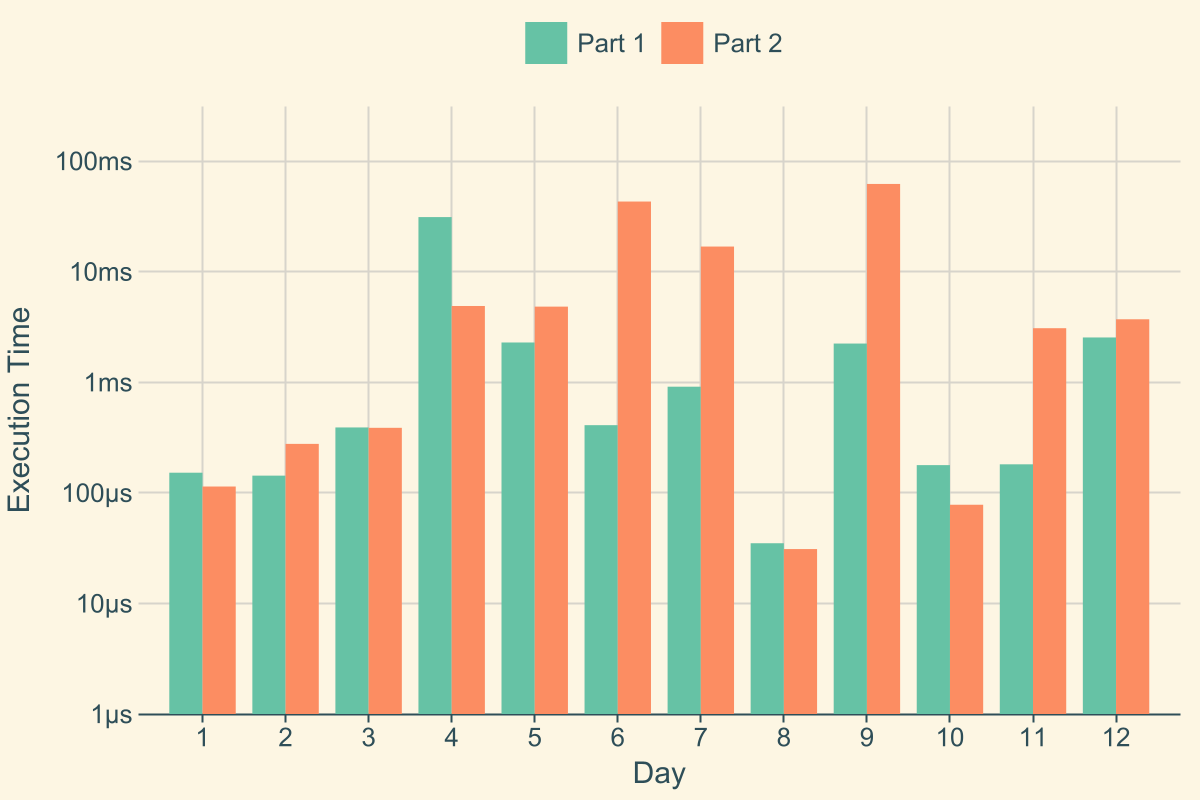
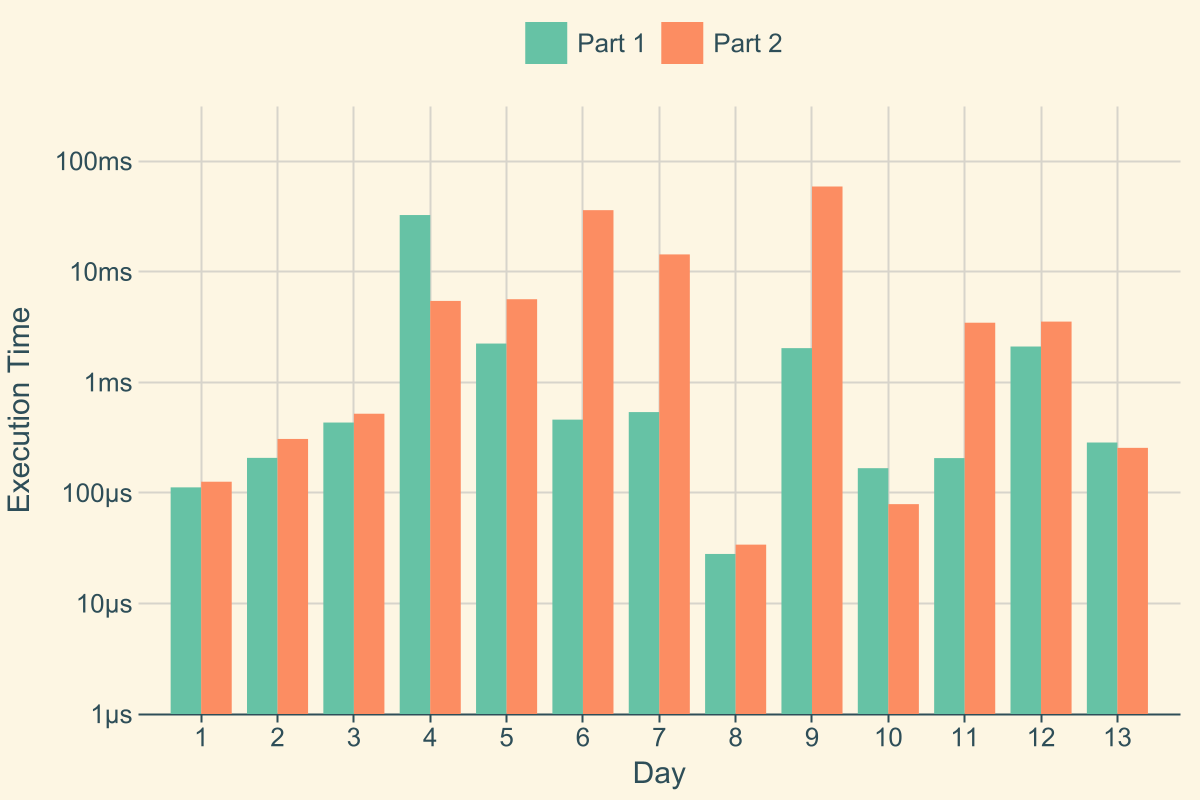
day13

Changed region(s): [[0.1233, 0.2188, 0.9558, 0.9375], [0.925, 0.9062, 0.9558, 0.9375]]

diff --git a/src/day13.rs b/src/day13.rs
@@ -1,0 +1,145 @@
+use crate::harness::Day;
+use crate::harness::Part;
+use regex::Regex;
+use std::sync::OnceLock;
+
+pub fn day13() -> Day<u64, u64> {
+    Day::new(13, Box::new(Part1 {}), Box::new(Part2 {}))
+}
+
+pub struct Part1;
+
+impl Part<u64> for Part1 {
+    fn expect_test(&self) -> u64 {
+        480
+    }
+
+    fn solve(&self, input: &[String]) -> u64 {
+        Input::from(input)
+            .machines
+            .iter()
+            .filter_map(|e| e.solve())
+            .sum()
+    }
+}
+
+pub struct Part2;
+
+impl Part<u64> for Part2 {
+    fn expect_test(&self) -> u64 {
+        875318608908
+    }
+
+    fn solve(&self, input: &[String]) -> u64 {
+        let mut input = Input::from(input);
+
+        for x in &mut input.machines {
+            x.prize.x += 10000000000000.0;
+            x.prize.y += 10000000000000.0;
+        }
+
+        input.machines.iter().filter_map(|e| e.solve()).sum()
+    }
+}
+
+struct Button {
+    x: f64,
+    y: f64,
+}
+
+impl From<&str> for Button {
+    fn from(value: &str) -> Self {
+        static REGEX: OnceLock<Regex> = OnceLock::new();
+        let regex =
+            REGEX.get_or_init(|| Regex::new("Button [AB]: X\\+(\\d+), Y\\+(\\d+)").unwrap());
+
+        let vec = parse_two_numbers(value, regex);
+
+        Self {
+            x: vec[0],
+            y: vec[1],
+        }
+    }
+}
+
+struct Prize {
+    x: f64,
+    y: f64,
+}
+
+impl From<&str> for Prize {
+    fn from(value: &str) -> Self {
+        static REGEX: OnceLock<Regex> = OnceLock::new();
+        let regex = REGEX.get_or_init(|| Regex::new("Prize: X=(\\d+), Y=(\\d+)").unwrap());
+
+        let vec = parse_two_numbers(value, regex);
+
+        Self {
+            x: vec[0],
+            y: vec[1],
+        }
+    }
+}
+
+struct Machine {
+    button_a: Button,
+    button_b: Button,
+    prize: Prize,
+}
+
+impl Machine {
+    fn solve(&self) -> Option<u64> {
+        let ax = self.button_a.x;
+        let bx = self.button_b.x;
+        let ay = self.button_a.y;
+        let by = self.button_b.y;
+
+        let x = self.prize.x;
+        let y = self.prize.y;
+
+        let a = (y * bx - x * by) / (bx * ay - ax * by);
+        let b = (-y * ax + x * ay) / (bx * ay - ax * by);
+
+        if a.fract() == 0.0 && b.fract() == 0.0 {
+            Some((a * 3.0 + b) as u64)
+        } else {
+            None
+        }
+    }
+}
+
+impl From<&[String]> for Machine {
+    fn from(value: &[String]) -> Self {
+        Self {
+            button_a: value[0].as_str().into(),
+            button_b: value[1].as_str().into(),
+            prize: value[2].as_str().into(),
+        }
+    }
+}
+
+struct Input {
+    machines: Vec<Machine>,
+}
+
+impl From<&[String]> for Input {
+    fn from(value: &[String]) -> Self {
+        Self {
+            machines: value
+                .split(|l| l.is_empty())
+                .filter(|e| e.len() == 3)
+                .map(Machine::from)
+                .collect(),
+        }
+    }
+}
+
+fn parse_two_numbers(value: &str, regex: &Regex) -> Vec<f64> {
+    regex
+        .captures(value)
+        .unwrap()
+        .iter()
+        .skip(1)
+        .map(|e| e.unwrap().as_str().parse().unwrap())
+        .collect::<Vec<_>>()
+}

diff --git a/src/main.rs b/src/main.rs
@@ -17,7 +17,7 @@ use crate::day09::day09;
 use crate::day10::day10;
 use crate::day11::day11;
 use crate::day12::day12;
-// use crate::day13::day13;
+use crate::day13::day13;
 // use crate::day14::day14;
 // use crate::day15::day15;
 // use crate::day16::day16;
@@ -43,7 +43,7 @@ mod day09;
 mod day10;
 mod day11;
 mod day12;
-// mod day13;
+mod day13;
 // mod day14;
 // mod day15;
 // mod day16;
@@ -72,6 +72,7 @@ fn main() {
         day10().f(),
         day11().f(),
         day12().f(),
+        day13().f(),
     ];
 
     let run_one = |id: usize| (days[id - 1].f)();
